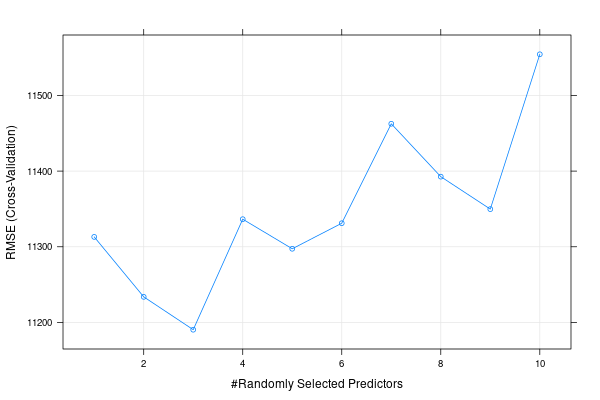
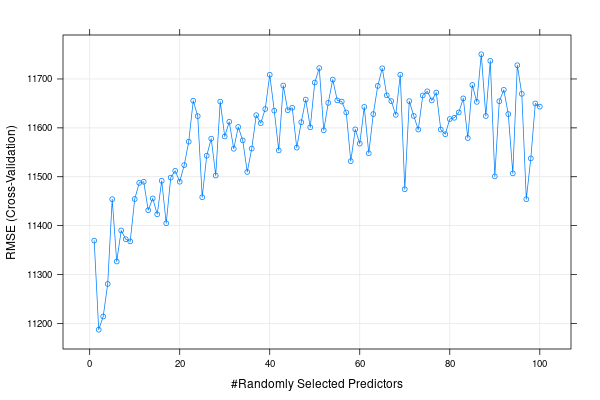
Update

diff --git a/README.md b/README.md
@@ -76,25 +76,115 @@ Summary of sample sizes: 40, 38, 40, 41, 39, 40, ...
 Resampling results across tuning parameters:
 
   mtry  RMSE      Rsquared   MAE     
-   1    11313.02  0.5913641  8805.113
-   2    11233.78  0.5739389  8595.103
-   3    11190.36  0.5421181  8522.698
-   4    11336.41  0.5071823  8580.285
-   5    11297.34  0.4935617  8609.997
-   6    11331.10  0.4550093  8628.867
-   7    11462.52  0.4813677  8686.385
-   8    11392.63  0.5200848  8629.688
-   9    11349.73  0.4646055  8596.461
-  10    11554.35  0.4699390  8791.347
+    1   11369.28  0.5825408  8833.336
+    2   11187.04  0.5510065  8548.529
+    3   11214.11  0.5542960  8518.524
+    4   11280.64  0.5260950  8576.022
+    5   11454.10  0.5108149  8730.777
+    6   11326.53  0.4984254  8587.088
+    7   11390.08  0.4687324  8618.069
+    8   11372.20  0.4830655  8636.803
+    9   11367.76  0.4972114  8599.217
+   10   11454.36  0.4841415  8704.176
+   11   11487.35  0.4623855  8676.495
+   12   11489.73  0.4420062  8736.847
+   13   11431.55  0.5210702  8625.165
+   14   11455.65  0.4963291  8690.094
+   15   11423.21  0.4045614  8666.902
+   16   11491.77  0.4621505  8705.965
+   17   11404.79  0.4887218  8631.536
+   18   11498.22  0.4868000  8674.489
+   19   11512.13  0.4452073  8717.027
+   20   11489.83  0.5126499  8698.679
+   21   11523.79  0.4246943  8723.497
+   22   11571.69  0.4868538  8732.012
+   23   11655.51  0.4804124  8828.010
+   24   11624.01  0.4772529  8770.177
+   25   11458.02  0.4705264  8660.399
+   26   11543.06  0.4792360  8727.092
+   27   11577.93  0.3981259  8745.861
+   28   11502.48  0.4536830  8745.675
+   29   11653.73  0.4615854  8844.886
+   30   11582.39  0.4797681  8795.526
+   31   11612.45  0.4819642  8806.489
+   32   11557.24  0.4455155  8752.635
+   33   11601.80  0.4377148  8815.541
+   34   11574.44  0.4659301  8786.594
+   35   11509.75  0.4672181  8779.044
+   36   11557.63  0.4135373  8855.100
+   37   11625.95  0.4740759  8861.364
+   38   11609.74  0.4743826  8854.181
+   39   11638.52  0.4577677  8869.886
+   40   11708.63  0.4242821  8906.295
+   41   11635.22  0.3848762  8894.682
+   42   11553.82  0.4022087  8811.883
+   43   11686.58  0.4682168  8949.433
+   44   11636.14  0.4539872  8908.966
+   45   11641.17  0.4153014  8910.314
+   46   11559.50  0.4265850  8811.665
+   47   11611.56  0.3723212  8888.233
+   48   11657.92  0.4586258  8919.970
+   49   11601.11  0.4747952  8921.727
+   50   11692.68  0.4246420  8870.220
+   51   11722.24  0.4615710  8965.082
+   52   11595.01  0.4182075  8855.852
+   53   11651.09  0.4599959  8917.252
+   54   11698.82  0.4673639  8928.388
+   55   11656.28  0.4545950  8873.276
+   56   11653.82  0.4743123  8927.030
+   57   11631.57  0.4095302  8871.065
+   58   11531.90  0.4754550  8811.641
+   59   11596.96  0.4545041  8874.456
+   60   11567.83  0.4224442  8883.209
+   61   11642.80  0.3879275  8844.138
+   62   11548.03  0.4693166  8790.038
+   63   11628.16  0.4057807  8897.744
+   64   11685.79  0.4621325  8909.707
+   65   11721.85  0.3640896  8969.716
+   66   11666.48  0.3650941  8901.387
+   67   11654.76  0.4164440  8864.363
+   68   11626.54  0.4664820  8913.165
+   69   11708.78  0.4026191  8917.122
+   70   11474.42  0.4842566  8739.101
+   71   11654.67  0.4660331  8914.949
+   72   11624.39  0.3651094  8885.744
+   73   11596.51  0.4282103  8870.106
+   74   11666.24  0.4602137  8948.716
+   75   11674.80  0.4529241  8944.255
+   76   11656.06  0.4528167  8978.879
+   77   11672.22  0.4538665  8905.883
+   78   11596.49  0.4602130  8847.518
+   79   11586.99  0.4199313  8852.786
+   80   11618.05  0.4474265  8896.157
+   81   11620.57  0.3837569  8898.779
+   82   11631.53  0.4634065  8870.268
+   83   11660.31  0.4644471  8944.814
+   84   11579.20  0.4679330  8810.191
+   85   11687.77  0.3844401  8939.302
+   86   11653.16  0.4742313  8890.548
+   87   11750.52  0.4738149  8952.295
+   88   11624.19  0.4559587  8903.530
+   89   11737.18  0.3699152  8986.237
+   90   11500.70  0.4629959  8775.226
+   91   11654.46  0.4041018  8866.241
+   92   11677.77  0.3762777  8902.974
+   93   11628.18  0.4515944  8869.444
+   94   11506.91  0.4797659  8755.749
+   95   11728.14  0.4670378  8997.887
+   96   11669.60  0.4421655  8916.967
+   97   11454.02  0.4404753  8750.353
+   98   11537.45  0.4305736  8862.995
+   99   11649.92  0.4395591  8882.417
+  100   11643.44  0.4552979  8893.972
 
 RMSE was used to select the optimal model using the smallest value.
-The final value used for the model was mtry = 3.
+The final value used for the model was mtry = 2.
 
 predictions_rf
        2        6        7       15       16       23       24       27       31       35 
-37350.00 51419.28 21576.30 48898.07 47736.55 31887.30 30553.16 48768.50 33569.82 37489.89 
+37616.31 50451.14 22783.34 48717.02 47673.42 32221.37 31292.14 48348.13 33664.34 37137.60 
       38       39 
-51990.50 44394.46 
+51574.15 44328.54
 ```
 ![RMS vs Ramdom Predictors Random Forest model](https://github.com/diegoalarc/Innovation_laboratory_EAGLE/blob/main/Plots/RMSE_vs_Ramdom_Predictors_rforest.png?raw=true "RMS vs Ramdom Predictors Random Forest model")
 
@@ -106,47 +196,117 @@ Conditional Random Forest hyperparameters:
 
 No pre-processing
 Resampling: Cross-Validated (10 fold) 
-Summary of sample sizes: 39, 39, 40, 39, 40, 40, ... 
+Summary of sample sizes: 40, 38, 40, 41, 39, 40, ... 
 Resampling results across tuning parameters:
 
   mtry  RMSE      Rsquared   MAE      
-   1    12053.26  0.4298993  10080.184
-   2    11814.87  0.3791793   9778.230
-   3    11689.42  0.4019155   9580.477
-   4    11591.90  0.3775144   9397.946
-   5    11534.47  0.3684445   9335.193
-   6    11457.66  0.3622635   9179.390
-   7    11480.85  0.3748539   9206.903
-   8    11479.33  0.3397349   9171.475
-   9    11478.41  0.3233077   9119.884
-  10    11443.39  0.3306709   9107.359
-  11    11502.91  0.3167354   9164.722
-  12    11548.07  0.2954789   9212.756
-  13    11590.20  0.3059548   9193.360
-  14    11539.12  0.3029505   9139.306
-  15    11589.38  0.3106756   9220.703
-  16    11497.30  0.3072841   9130.800
-  17    11502.25  0.3015877   9099.461
-  18    11517.28  0.3009394   9133.289
-  19    11581.38  0.2850629   9207.241
-  20    11496.29  0.3013609   9119.681
-  21    11511.56  0.2989071   9145.873
-  22    11526.58  0.2913248   9083.042
-  23    11570.59  0.2932375   9154.639
-  24    11611.12  0.3028381   9162.697
-  25    11466.83  0.3084365   9068.082
-  26    11600.29  0.2818326   9148.720
-  27    11606.32  0.2925889   9200.412
-  28    11528.23  0.3013926   9082.504
-  29    11531.90  0.3031029   9139.294
-  30    11574.06  0.3030992   9171.680
+    1   12333.24  0.3853406  10111.060
+    2   12030.29  0.5129408   9787.982
+    3   11904.45  0.4989630   9580.630
+    4   11872.74  0.4241099   9521.488
+    5   11753.34  0.4691263   9477.053
+    6   11800.63  0.4938131   9492.160
+    7   11831.63  0.4793971   9506.669
+    8   11709.38  0.4603914   9338.788
+    9   11675.17  0.5167871   9351.079
+   10   11676.07  0.5036210   9315.453
+   11   11697.41  0.4597627   9299.707
+   12   11733.96  0.4928548   9381.092
+   13   11660.43  0.4896101   9253.773
+   14   11581.98  0.5010718   9213.499
+   15   11690.30  0.5081050   9308.830
+   16   11670.20  0.4960640   9254.243
+   17   11761.05  0.4614463   9337.341
+   18   11689.77  0.5230617   9287.445
+   19   11651.37  0.5055056   9237.189
+   20   11636.51  0.5077867   9298.295
+   21   11684.60  0.4919418   9334.129
+   22   11648.78  0.5052838   9276.429
+   23   11708.27  0.4878141   9305.966
+   24   11633.00  0.4897809   9255.390
+   25   11658.06  0.5091878   9263.946
+   26   11615.39  0.5141192   9193.376
+   27   11611.76  0.5009969   9201.247
+   28   11621.92  0.4970718   9234.868
+   29   11673.25  0.4971165   9248.417
+   30   11767.66  0.4856989   9345.296
+   31   11692.40  0.4785830   9225.647
+   32   11637.38  0.5048787   9245.169
+   33   11695.11  0.4867293   9318.479
+   34   11653.33  0.5034803   9250.589
+   35   11583.65  0.5239194   9196.512
+   36   11764.16  0.4683458   9330.326
+   37   11656.26  0.4750987   9218.673
+   38   11708.21  0.4859665   9285.849
+   39   11683.69  0.4845550   9260.369
+   40   11700.15  0.4999535   9248.788
+   41   11694.07  0.5018198   9285.181
+   42   11700.72  0.4956080   9259.620
+   43   11653.32  0.4837239   9215.420
+   44   11687.09  0.4850622   9209.130
+   45   11715.59  0.4883332   9278.797
+   46   11673.57  0.4896086   9241.786
+   47   11767.08  0.4722506   9318.222
+   48   11746.48  0.4660950   9306.346
+   49   11687.00  0.4895300   9251.456
+   50   11673.40  0.5051879   9260.188
+   51   11687.76  0.5011283   9229.653
+   52   11705.64  0.4989726   9275.069
+   53   11731.64  0.4654349   9257.461
+   54   11650.37  0.4972405   9236.948
+   55   11735.22  0.4817002   9278.994
+   56   11829.21  0.4727345   9351.931
+   57   11674.67  0.4949034   9249.404
+   58   11735.97  0.4575142   9264.450
+   59   11710.86  0.4902270   9260.930
+   60   11731.73  0.4772106   9321.768
+   61   11639.57  0.5035347   9219.993
+   62   11679.72  0.4911197   9263.066
+   63   11704.58  0.4819921   9237.230
+   64   11664.74  0.4848711   9279.650
+   65   11701.36  0.4925179   9320.576
+   66   11699.67  0.4640449   9286.086
+   67   11742.16  0.4749673   9299.569
+   68   11701.38  0.4908444   9239.432
+   69   11699.83  0.4689559   9284.701
+   70   11694.55  0.4822459   9278.303
+   71   11828.78  0.4605363   9398.057
+   72   11702.53  0.4733471   9267.024
+   73   11574.26  0.4950811   9160.008
+   74   11696.70  0.5013582   9314.596
+   75   11784.63  0.4652983   9363.763
+   76   11726.53  0.5028747   9334.742
+   77   11627.18  0.5160994   9206.861
+   78   11643.85  0.4926419   9213.662
+   79   11707.46  0.4888041   9282.897
+   80   11698.36  0.4750101   9276.367
+   81   11672.63  0.4818484   9218.622
+   82   11622.99  0.4867739   9223.885
+   83   11638.13  0.5055147   9218.348
+   84   11670.46  0.4922934   9235.342
+   85   11711.65  0.5025058   9258.032
+   86   11691.13  0.4992768   9306.685
+   87   11671.32  0.4941279   9258.745
+   88   11686.36  0.4920082   9246.084
+   89   11773.15  0.4512359   9353.516
+   90   11740.93  0.4817501   9273.856
+   91   11663.84  0.4881041   9230.773
+   92   11647.48  0.4871584   9194.183
+   93   11733.20  0.4793747   9273.111
+   94   11644.36  0.4901615   9207.097
+   95   11619.07  0.5045112   9181.930
+   96   11663.32  0.4874072   9245.649
+   97   11696.10  0.4769912   9279.328
+   98   11665.48  0.5131101   9206.781
+   99   11760.26  0.4669882   9308.116
+  100   11708.61  0.4789429   9257.197
 
 RMSE was used to select the optimal model using the smallest value.
-The final value used for the model was mtry = 10.
+The final value used for the model was mtry = 73.
 
 predictions_crf
- [1] 39564.89 45875.62 31771.34 48094.92 47655.84 34375.79 34443.04 42533.70 35074.93 36167.06
-[11] 48650.54 45200.77
+ [1] 36882.24 48567.60 32606.83 49857.94 49750.02 36080.43 36333.06 40673.48 36623.21 36909.67
+[11] 49896.75 41456.92
 ```
 ![RMS vs Ramdom Predictors Conditional Random Forest model](https://github.com/diegoalarc/Innovation_laboratory_EAGLE/blob/main/Plots/RMSE_vs_Ramdom_Predictors_cforest.png?raw=true "RMS vs Ramdom Predictors Conditional Random Forest model")
 
@@ -166,21 +326,21 @@ These are the values with the best performance, after the auto-selection of the 
 
 | `R2` | `RMSE Kg` | `MAE Kg` |
 | :-------: | :------: | :-----: |
-| 0.9477977 | 2734.403 | 2110.473 |
+| 0.9434978 | 3039.821 | 2328.789 |
 
 |`RMSE without dimension`|
 | :--------------------: |
-| 0.06728709 |
+| 0.07480269 |
 
 - Conditional RandomForest model:
 
 | `R2` | `RMSE Kg` | `MAE Kg` |
 | :-------: | :------: | :-----: |
-| 0.805903 | 6059.249 | 4653.996 |
+| 0.7291815 | 6439.277 | 5277.034 |
 
 |`RMSE without dimension`|
 | :--------------------: |
-| 0.1491036 |
+| 0.1584551 |
 
 ### Model comparison
 
